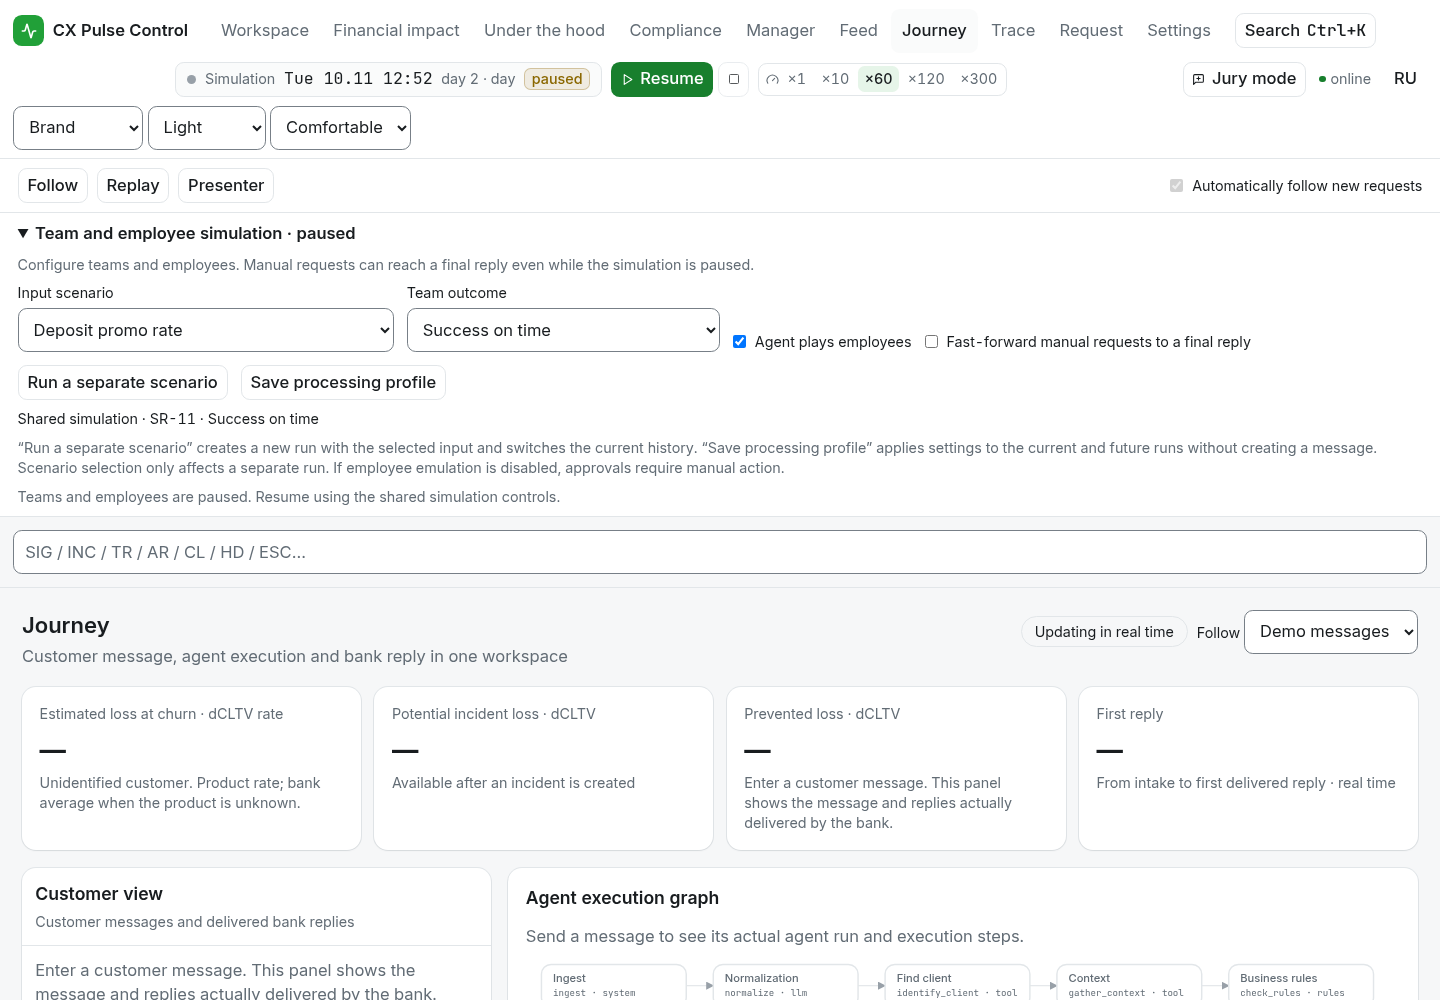
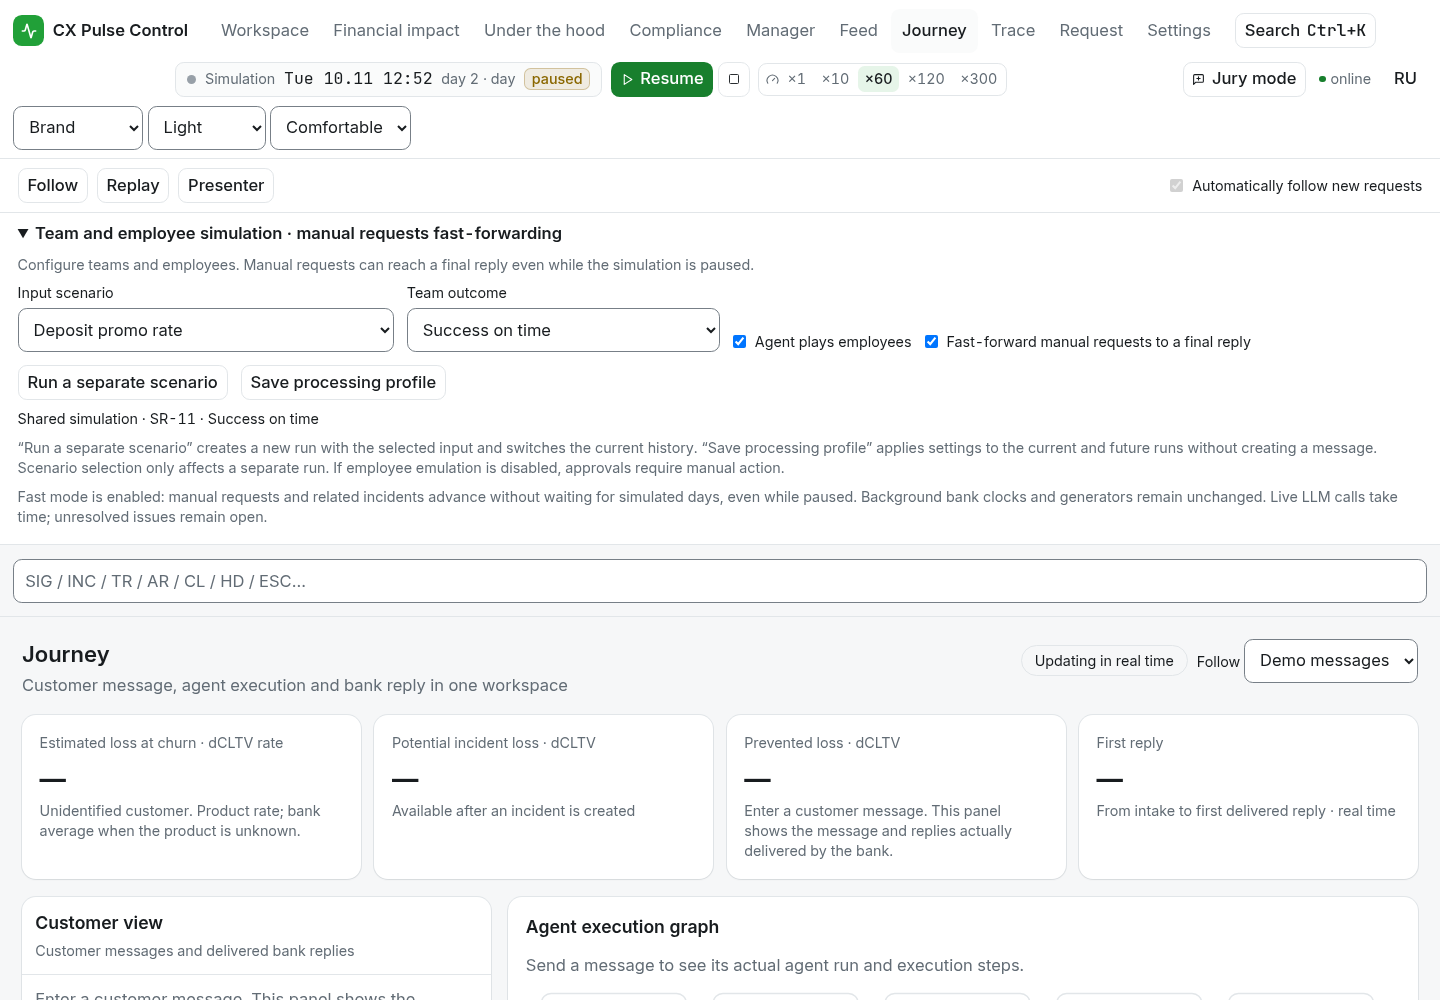
test(journey): подтвердить общий итог и отобразить активный ручной режим

diff --git a/frontend/src/pages/journey/DemoExecution.tsx b/frontend/src/pages/journey/DemoExecution.tsx
@@ -35,8 +35,9 @@ export function DemoExecution({ onStarted }: { onStarted?: (ref: string) => void
   }, [config, edited])
   const enabled = config?.enabled === true
   const isolated = enabled && config?.mode === 'demo'
+  const status = enabled && config?.mode === 'simulation' && config.auto_advance === true ? 'manual' : String(config?.status ?? 'idle')
   return <details className="shrink-0 border-b border-line bg-surface px-4 py-2">
-    <summary className="cursor-pointer text-sm font-semibold">{t('demoExecution.title')} · {t(`demoExecution.status.${String(config?.status ?? 'idle')}`)}</summary>
+    <summary className="cursor-pointer text-sm font-semibold">{t('demoExecution.title')} · {t(`demoExecution.status.${status}`)}</summary>
     <p className="my-2 text-xs text-muted">{t('demoExecution.hint')}</p>
     <div className="flex flex-wrap items-end gap-3">
       <label className="flex flex-col gap-1 text-xs">{t('demoExecution.scenario')}

diff --git a/backend/app/sim/teams.py b/backend/app/sim/teams.py
@@ -678,6 +678,8 @@ class TeamEmulator:
 
     async def _process_regressions(self, sim_time: dt.datetime, world: Any) -> None:
         for pr in list(self.pending_regressions):
+            if self.incident_ids is not None and pr.incident_id not in self.incident_ids:
+                continue
             if sim_time < pr.release_sim + dt.timedelta(minutes=pr.delay_min):
                 continue
             if pr.incident_id in getattr(self, "_regressed_incidents", set()):

diff --git a/docs/benchmarks/manual-chain-2026-10-31/README.md b/docs/benchmarks/manual-chain-2026-10-31/README.md
@@ -33,7 +33,7 @@ Worker проверял одновременно `configuration.status=running` 
 ## Проверки
 
 - `make lint`: ruff, форматирование, mypy, OpenAPI drift — успешно.
-- `make test` без переменной тестовой БД: 674 unit, 8 integration и 2 scenario
+- `make test` без переменной тестовой БД: 675 unit, 8 integration и 2 scenario
   прошли; 18/173/42 соответственно пропущены по условиям окружения.
 - Отдельный PostgreSQL 16: существующие 11 demo-регрессий и 2 начальные
   manual-регрессии — 13 passed; после уточнения времени и проверки первого
@@ -44,7 +44,14 @@ Worker проверял одновременно `configuration.status=running` 
   `NODE_OPTIONS=--no-experimental-webstorage` для совместимости с тестовым jsdom.
 - `contracts_check.py`, `i18n_check.py`, генератор карточек и проверка владельцев
   `--allow-cross` — успешно; контракты не менялись.
-- Скриншоты `journey-{ru,en}-{light,dark}.png` проверены в Chrome.
+- Скриншоты `journey-{ru,en}-{light,dark}.png` проверены в Chrome; показан включённый ускоренный профиль, GET настроек подменён только в preview, без записи настроек пользователя.
+- Финальные проверки ручных входов и управления симуляцией: 18 passed (PostgreSQL 16).
+- Полный первоначальный PostgreSQL-прогон выявил устаревшее ожидание паузы по умолчанию в четырёх тестах и несовместимую сигнатуру mock в двух тестах; исправлена явная настройка обычного режима и mock. Две ошибки импорта сгенерированных схем вызваны одновременным unit-генератором и DB-тестами, повторная изолированная проверка прошла.
+
+Сквозной HTTP-smoke финального кода на mock: SIG-000001 и SIG-000002 связаны
+с одним инцидентом, оба закрыты и получили по одному итоговому уведомлению за
+16,27 секунды. Симуляция осталась на паузе, её время не изменилось. Выдержки
+`agent_runs`/`sim_events` и фактические ответы — в `mock-cycle.json`.
 
 ## Ограничения
 
